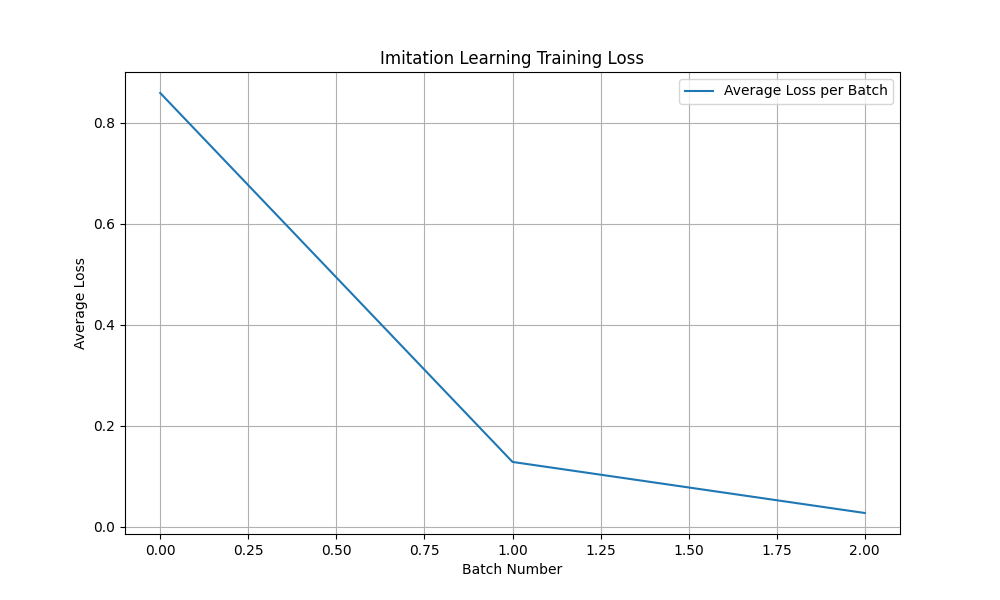
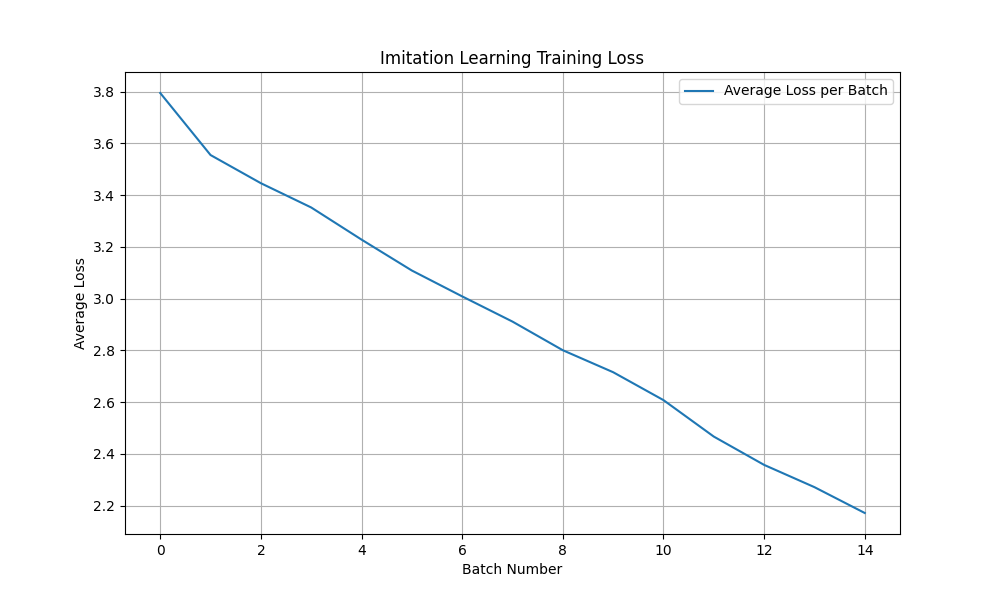
improved imitation learning 2

diff --git a/src/q_agent.py b/src/q_agent.py
@@ -122,7 +122,7 @@ class Agent:
         dataset_size = len(self.imitation_learning_memory)
         losses = []
 
-        self.imitation_optimizer = torch.optim.Adam(params=self.model.parameters(), lr=0.001)
+        self.imitation_optimizer = torch.optim.Adam(params=self.model.parameters(), lr=0.005)
         
         for epoch in range(epochs_per_batch):
             

diff --git a/src/config.py b/src/config.py
@@ -27,7 +27,7 @@ FIFO_CONTROLS = "fifo_controls"
 LOGGING = False
 
 EPSILON_DECAY = 0.995
-EPSILON = 1.0
+EPSILON = 0.02#1.0
 DISCOUNT = 0.99
 EPSILON_COUNTER_EPOCH = 50
 MIN_EPSILON = 0.045
